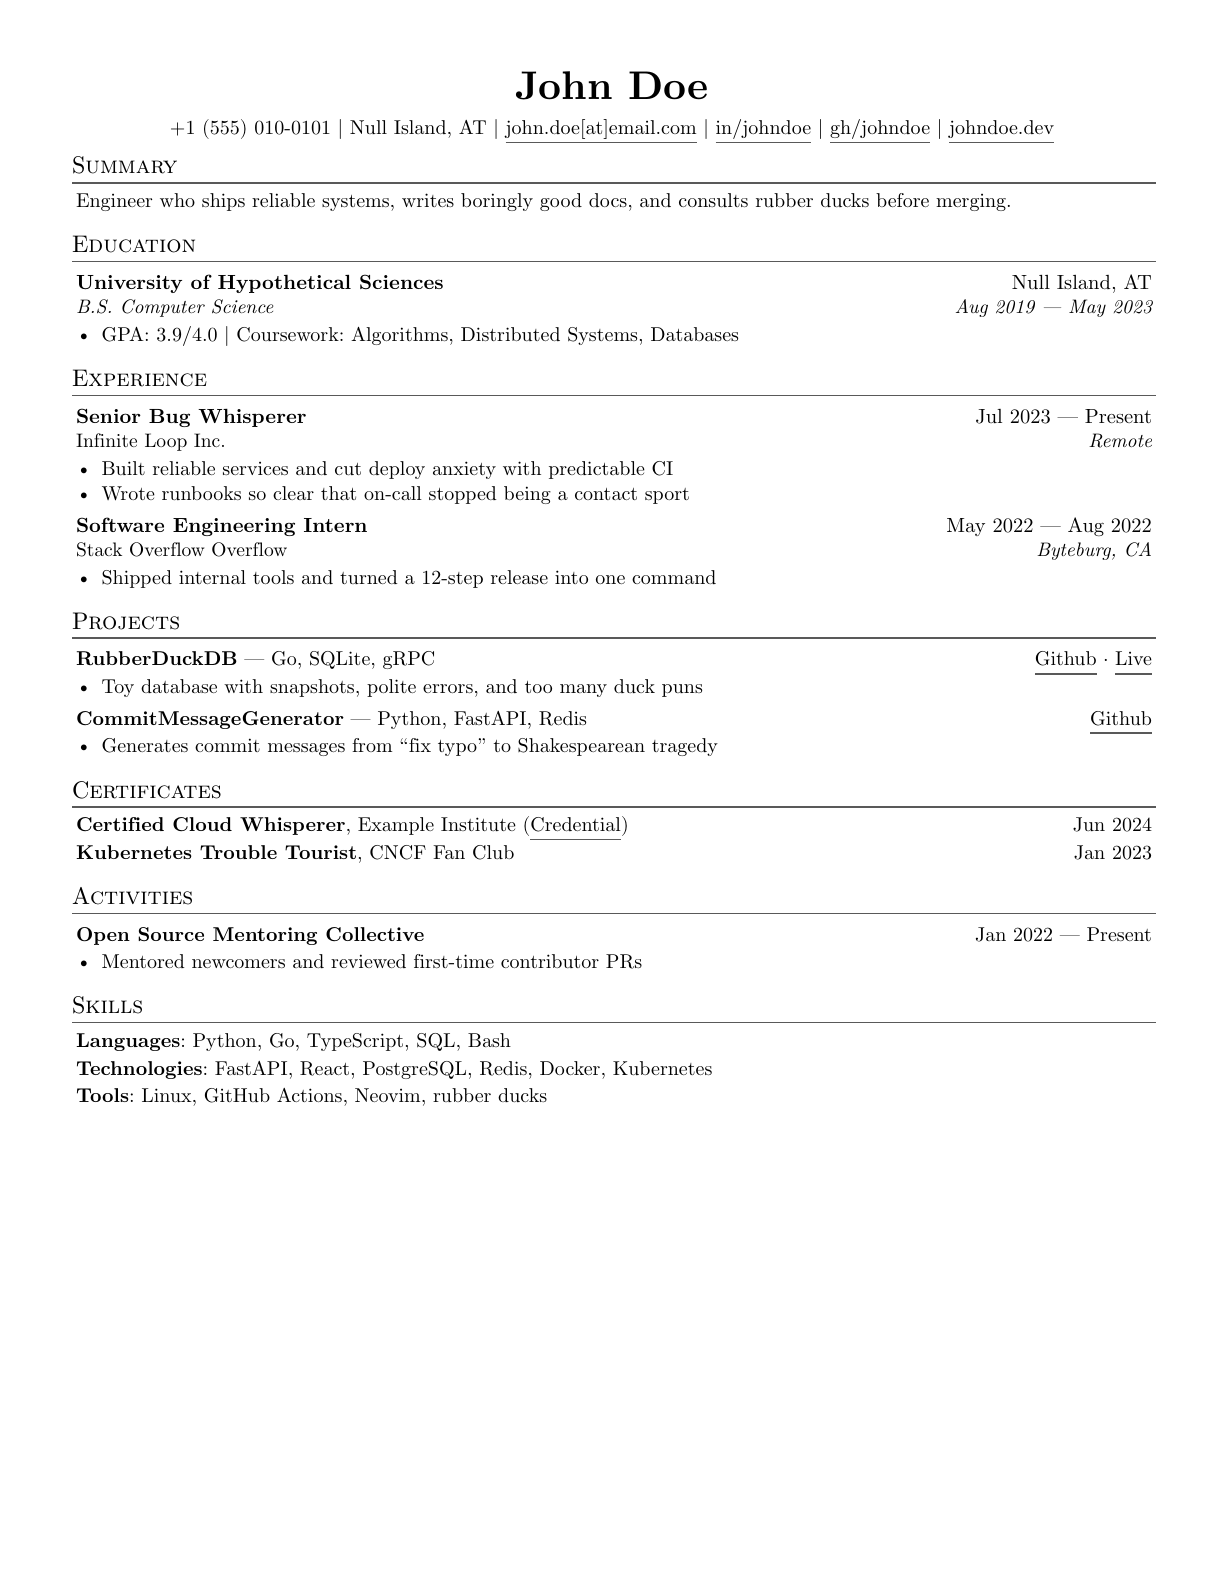
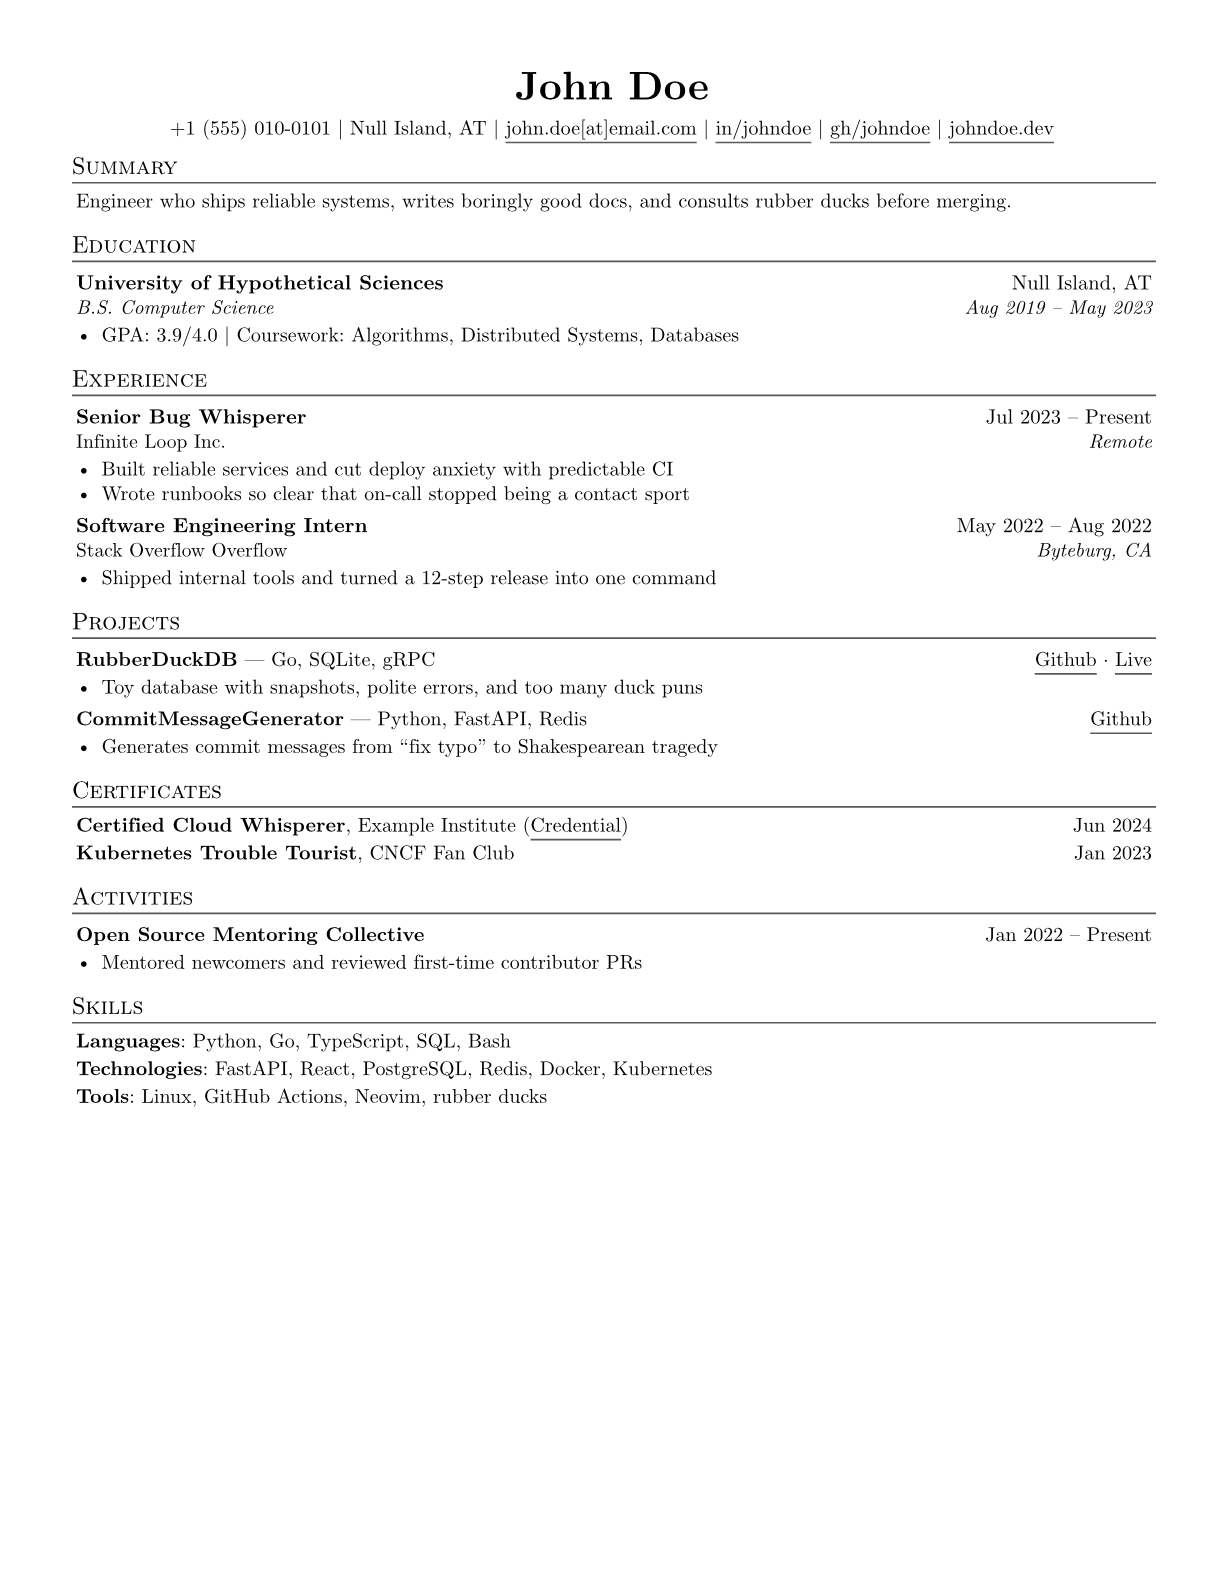
Use en dash for date ranges in dates-helper

diff --git a/README.md b/README.md
@@ -23,9 +23,6 @@ repository.
 - [Manual](docs/manual.pdf) — full API reference and usage examples.
 - `typst.toml` defines the package and template entrypoints.
 
-Personal data is intentionally not stored here. A private document can live
-next to the clone, for example `../main.typ`, and import the local package with:
-
 ```typst
 #import "exp-resume-template/src/lib.typ": *
 ```
@@ -39,8 +36,7 @@ typst init @preview/exp-resume:0.1.1
 ```
 
 The generated `main.typ` contains the complete John Doe placeholder and the
-available component functions. Replace its values and content with your own
-information in your private document.
+available component functions.
 
 The central pattern is:
 
